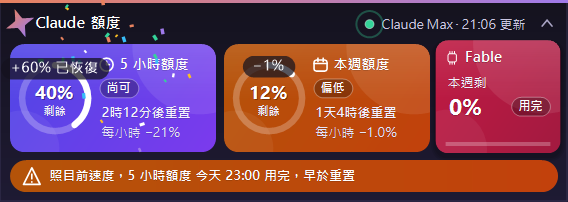
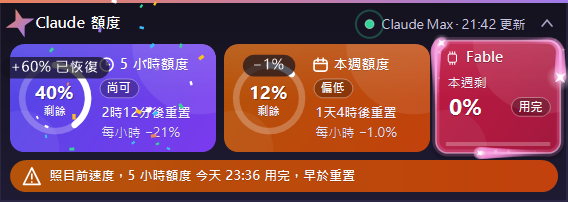
0.1.1：滑鼠移到卡片時，各額度專屬的光芒沿卡片邊緣繞行
- 5 小時青藍電光（兩道、1.5 秒一圈）、本週金色流光（一道長尾、2.2 秒）、
  各模型粉紫星光（三道、2.6 秒）；光尾由額度色漸變到白色光頭，光頭有光暈、
  旋轉星芒與殘留小星星；移入淡入、移開淡出後才停止
- --screenshot 加各額度懸停截圖、移開淡出截圖與重繪耗時量測，並忽略真實滑鼠
- README 加光芒截圖，版本改 0.1.1

diff --git a/src/TilePainter.cs b/src/TilePainter.cs
@@ -13,6 +13,26 @@ internal sealed record TileModel(string Title, TileIcon Icon, double Remaining, 
 /// <summary>The one-sentence conclusion under the tiles.</summary>
 internal sealed record Insight(string Text, Level Level, InsightIcon Icon);
 
+/// <summary>Each quota's own hover light, so the three blocks never glow alike.</summary>
+internal sealed record GlowStyle(Color Color, int Comets, float Tail, float LapMs)
+{
+    /// <summary>5-hour: electric cyan, two quick comets.</summary>
+    public static readonly GlowStyle Session = new(Color.FromArgb(0x5E, 0xEA, 0xF4), 2, 0.30f, 1500);
+
+    /// <summary>Weekly: one long golden stream.</summary>
+    public static readonly GlowStyle Weekly = new(Color.FromArgb(0xFF, 0xC9, 0x4D), 1, 0.48f, 2200);
+
+    /// <summary>Per-model windows: three short pink-violet starlights.</summary>
+    public static readonly GlowStyle Model = new(Color.FromArgb(0xF4, 0x8F, 0xD8), 3, 0.18f, 2600);
+
+    public static GlowStyle For(string windowId) => windowId switch
+    {
+        WindowIds.FiveHour => Session,
+        WindowIds.SevenDay => Weekly,
+        _ => Model,
+    };
+}
+
 /// <summary>
 /// Pixel fonts for one DPI scale, cached so animation frames do not allocate fonts. Sizes are on the
 /// generous side and most labels are bold: JhengHei's regular strokes get thin and blurry when small.
@@ -133,6 +153,115 @@ internal static class TilePainter
         }
         g.Clip = clip;
     }
+
+    /// <summary>
+    /// Hover light: comets of light run around the block's rounded edge over a softly lit rim.
+    /// Each quota has its own light (colour, number of comets, tail length, speed); the tail fades
+    /// from that colour into a white head with a light burst, a sparkle and a few trailing twinkles.
+    /// phase 0..1 is one lap; intensity 0..1 fades the whole effect in and out. With phase &lt; 0
+    /// (animations off) only the lit rim is drawn.
+    /// </summary>
+    public static void EdgeGlow(Graphics g, RectangleF r, float radius, float phase, float scale, GlowStyle style, float intensity = 1)
+    {
+        if (intensity <= 0.01f)
+            return;
+        using var path = Theme.RoundedRect(r, radius);
+        float breathe = phase < 0 ? 1 : 0.75f + 0.25f * MathF.Sin(phase * MathF.PI * 2 * 3);
+        float level = breathe * intensity;
+        var tint = style.Color;
+        // The whole edge glows softly outward in the quota's colour, with a crisp lit rim on top.
+        using (var aura = new Pen(Color.FromArgb((int)(70 * level), tint), 7f * scale))
+            g.DrawPath(aura, path);
+        using (var rim = new Pen(Color.FromArgb((int)(190 * level), Mix(tint, Color.White, 0.55f)), 1.6f * scale))
+            g.DrawPath(rim, path);
+        if (phase < 0)
+            return;
+
+        path.Flatten(null, 0.3f);
+        var points = path.PathPoints;
+        int n = points.Length;
+        if (n < 3)
+            return;
+        var lengths = new float[n + 1];
+        for (int i = 0; i < n; i++)
+        {
+            var a = points[i];
+            var b = points[(i + 1) % n];
+            lengths[i + 1] = lengths[i] + MathF.Sqrt((b.X - a.X) * (b.X - a.X) + (b.Y - a.Y) * (b.Y - a.Y));
+        }
+        float total = lengths[n];
+        PointF At(float distance)
+        {
+            distance = ((distance % total) + total) % total;
+            int i = Array.BinarySearch(lengths, distance);
+            if (i < 0)
+                i = ~i - 1;
+            i = Math.Clamp(i, 0, n - 1);
+            float span = lengths[i + 1] - lengths[i];
+            float t = span <= 0 ? 0 : (distance - lengths[i]) / span;
+            var a = points[i];
+            var b = points[(i + 1) % n];
+            return new PointF(a.X + (b.X - a.X) * t, a.Y + (b.Y - a.Y) * t);
+        }
+
+        const int Steps = 48;
+        float tail = total * style.Tail;
+        using var halo = new Pen(Color.White, 8f * scale) { StartCap = LineCap.Round, EndCap = LineCap.Round };
+        using var core = new Pen(Color.White, 3f * scale) { StartCap = LineCap.Round, EndCap = LineCap.Round };
+        using var white = new SolidBrush(Color.FromArgb((int)(255 * intensity), 255, 255, 255));
+        for (int c = 0; c < style.Comets; c++)
+        {
+            float offset = c / (float)style.Comets;
+            float head = ((phase + offset) % 1f) * total;
+            var previous = At(head - tail);
+            for (int k = 1; k <= Steps; k++)
+            {
+                float t = k / (float)Steps;
+                var point = At(head - tail + tail * t);
+                // Coloured and thin at the tail, white and wide at the head: the light reads as moving forward.
+                halo.Color = Color.FromArgb((int)(160 * t * t * level), tint);
+                halo.Width = (2 + 10 * t) * scale;
+                g.DrawLine(halo, previous, point);
+                core.Color = Color.FromArgb((int)(255 * t * level), Mix(tint, Color.White, 0.25f + 0.75f * t * t));
+                core.Width = (1f + 2.4f * t) * scale;
+                g.DrawLine(core, previous, point);
+                previous = point;
+            }
+
+            // A soft burst of coloured light around the head, with a turning sparkle in it.
+            var at = At(head);
+            float twinkle = 0.72f + 0.28f * MathF.Sin((phase * 11 + offset) * MathF.PI * 2);
+            float burst = 14f * scale * twinkle;
+            using (var glowPath = new GraphicsPath())
+            {
+                glowPath.AddEllipse(at.X - burst, at.Y - burst, burst * 2, burst * 2);
+                using var glow = new PathGradientBrush(glowPath)
+                {
+                    CenterColor = Color.FromArgb((int)(220 * level), Mix(tint, Color.White, 0.6f)),
+                    SurroundColors = [Color.FromArgb(0, tint)],
+                };
+                g.FillPath(glow, glowPath);
+            }
+            Glyphs.Sparkle(g, at, 7f * scale * twinkle, white, phase * 360 * 2);
+
+            // Little stars left behind the head, each twinkling on its own beat.
+            for (int j = 1; j <= 4; j++)
+            {
+                float back = head - tail * 0.16f * j;
+                var star = At(back);
+                float beat = 0.5f + 0.5f * MathF.Sin((phase * 14 + j * 0.37f + offset) * MathF.PI * 2);
+                int alpha = (int)(230 * (1 - j / 5f) * beat * intensity);
+                if (alpha < 8)
+                    continue;
+                float wobble = MathF.Sin((phase * 6 + j) * MathF.PI * 2) * 3.5f * scale;
+                using var starBrush = new SolidBrush(Color.FromArgb(alpha, Mix(tint, Color.White, 0.7f)));
+                Glyphs.Sparkle(g, new PointF(star.X + wobble, star.Y - wobble * 0.6f), (3.6f - j * 0.5f) * scale, starBrush, j * 40);
+            }
+        }
+    }
+
+    static Color Mix(Color a, Color b, float t) => Color.FromArgb(
+        (int)(a.R + (b.R - a.R) * t), (int)(a.G + (b.G - a.G) * t), (int)(a.B + (b.B - a.B) * t));
 
     /// <summary>A soft drop shadow under a lifted block (lift 0..1).</summary>
     public static void Shadow(Graphics g, RectangleF r, float radius, float lift, float scale)

diff --git a/src/OverlayForm.cs b/src/OverlayForm.cs
@@ -405,7 +405,8 @@ internal sealed class OverlayForm : Form
             float current = lift.GetValueOrDefault(id), target = id == hoverTile ? 1 : 0;
             if (Math.Abs(target - current) > 0.01f)
             {
-                lift[id] = current + (target - current) * 0.22f;
+                // Gentle ease so the lift and its edge light fade in and out over about a quarter second.
+                lift[id] = current + (target - current) * 0.14f;
                 lifting = true;
             }
             else
@@ -416,7 +417,8 @@ internal sealed class OverlayForm : Form
 
         long now = fx.ElapsedMilliseconds;
         effects.RemoveAll(e => now - e.Start > e.Duration);
-        bool effecting = effects.Count > 0 || now - popStart < PopMs;
+        // The edge light keeps running only while the pointer is on a block.
+        bool effecting = effects.Count > 0 || now - popStart < PopMs || hoverTile != null;
 
         Invalidate();
         if (!tweening && !loading && !critical && !fading && !lifting && !effecting)
@@ -612,7 +614,8 @@ internal sealed class OverlayForm : Form
             Location = originStart + delta;
             return;
         }
-        SetHover(tileBounds.FirstOrDefault(t => t.Bounds.Contains(e.Location)).Id);
+        if (!scriptedHover)
+            SetHover(tileBounds.FirstOrDefault(t => t.Bounds.Contains(e.Location)).Id);
         // Pointing at the sparkle makes it twinkle.
         if (animate && !Compact && e.Y < S(Pad + HeaderH) && e.X < S(Pad + 120) && fx.ElapsedMilliseconds - popStart > 1200)
         {
@@ -636,6 +639,20 @@ internal sealed class OverlayForm : Form
         hoverTile = id;
         Kick();
         Invalidate();
+    }
+
+    /// <summary>
+    /// The quota's own edge light. Its strength follows the hover lift, so it fades in when the
+    /// pointer arrives and only fades away after the pointer has left.
+    /// </summary>
+    void PaintHoverLight(Graphics g, RectangleF drawn, string id, string windowId, float radius)
+    {
+        float intensity = animate ? lift.GetValueOrDefault(id) : (hoverTile == id ? 1 : 0);
+        if (intensity <= 0.01f)
+            return;
+        var style = GlowStyle.For(windowId);
+        float phase = animate ? fx.ElapsedMilliseconds % style.LapMs / style.LapMs : -1;
+        TilePainter.EdgeGlow(g, drawn, radius, phase, UiScale, style, intensity);
     }
 
     void OnMouseUp(object? sender, MouseEventArgs e)
@@ -746,6 +763,7 @@ internal sealed class OverlayForm : Form
                 var level = Theme.LevelOf(w.RemainingPercent, service.Settings);
                 var drawn = Lifted(g, r, w.Id, 12 * s, out float l);
                 TilePainter.Mini(g, drawn, w.Label.Replace("本週·", ""), ShownValue(w), level, Theme.Word(level, w.RemainingPercent), f, 0.25f * l, shimmer);
+                PaintHoverLight(g, drawn, w.Id, w.Id, 12 * s);
                 tileBounds.Add((r, w.Id));
             }
         }
@@ -773,6 +791,7 @@ internal sealed class OverlayForm : Form
         var drawn = Lifted(g, r, id, 14 * UiScale, out float l);
         float glow = Math.Max(w == null ? 0 : GlowFor(w), 0.25f * l);
         TilePainter.Tile(g, drawn, model, Fonts, glow, shimmer);
+        PaintHoverLight(g, drawn, id, id, 14 * UiScale);
         tileBounds.Add((r, id));
     }
 
@@ -814,6 +833,7 @@ internal sealed class OverlayForm : Form
         var drawn = Lifted(g, r, "compact", 14 * s, out float l);
         float glow = Math.Max(w == null ? 0 : GlowFor(w), 0.25f * l);
         TilePainter.Tile(g, drawn, model, f, glow, shimmer);
+        PaintHoverLight(g, drawn, "compact", w?.Id ?? WindowIds.SevenDay, 14 * s);
         tileBounds.Add((r, "compact"));
         var dot = new PointF(drawn.Right - 13 * s, drawn.Y + 13 * s);
         float pop = PopProgress;
@@ -939,6 +959,16 @@ internal sealed class OverlayForm : Form
         {
         }
     }
+
+    /// <summary>Points the hover at a block (or none) as if the mouse were there; used by --screenshot.</summary>
+    internal void SimulateHover(string? id)
+    {
+        scriptedHover = true;
+        SetHover(id);
+    }
+
+    /// <summary>Set by --screenshot so a real pointer resting over the window cannot override the scripted hover.</summary>
+    bool scriptedHover;
 
     /// <summary>Plays the "quota used", "reset confetti" and hover effects at once; used by --screenshot.</summary>
     internal void PlayDemoEffects()

diff --git a/src/Program.cs b/src/Program.cs
@@ -129,6 +129,23 @@ internal static class Program
             Grab(overlay, Path.Combine(folder, "overlay-anim-1.png"), settleMs: 120);
             Grab(overlay, Path.Combine(folder, "overlay-anim-2.png"), settleMs: 180);
             Grab(overlay, Path.Combine(folder, "overlay-settled.png"), settleMs: 1200);
+            foreach (var (id, name) in new[] { (WindowIds.FiveHour, "session"), (WindowIds.SevenDay, "weekly"), ("model:fable", "model") })
+            {
+                overlay.SimulateHover(id);
+                Grab(overlay, Path.Combine(folder, $"overlay-hover-{name}-1.png"), settleMs: 450);
+                Grab(overlay, Path.Combine(folder, $"overlay-hover-{name}-2.png"), settleMs: 400);
+            }
+            // Frame cost with the heaviest light (three comets) on: must stay well under 16 ms for 60 fps.
+            using (var frame = new Bitmap(overlay.Width, overlay.Height))
+            {
+                var timer = Stopwatch.StartNew();
+                for (int i = 0; i < 120; i++)
+                    overlay.DrawToBitmap(frame, new Rectangle(Point.Empty, overlay.Size));
+                File.WriteAllText(Path.Combine(folder, "paint-timing.txt"), $"hover frame: {timer.Elapsed.TotalMilliseconds / 120:0.00} ms\n");
+            }
+            overlay.SimulateHover(null);
+            Grab(overlay, Path.Combine(folder, "overlay-unhover-fading.png"), settleMs: 90);
+            Grab(overlay, Path.Combine(folder, "overlay-unhover.png"), settleMs: 700);
             overlay.PlayDemoEffects();
             Grab(overlay, Path.Combine(folder, "overlay-effects.png"), settleMs: 380);
         }

diff --git a/README.md b/README.md
@@ -23,6 +23,14 @@
 
 ![小動畫](docs/screenshots/overlay-effects.png)
 
+**滑鼠移到卡片**：每個額度有自己的光芒沿著卡片邊緣繞行——5 小時是青藍電光（兩道、最快）、本週是金色流光（一道長尾）、各模型是粉紫星光（三道）；光頭有閃爍星芒與殘留小星星，移開後淡出才停止。
+
+![5 小時額度的青藍電光](docs/screenshots/overlay-hover-session.png)
+
+![本週額度的金色流光](docs/screenshots/overlay-hover-weekly.png)
+
+![模型額度的粉紫星光](docs/screenshots/overlay-hover-model.png)
+
 **精簡浮窗**：只顯示比較緊的那個額度。
 
 ![精簡浮窗](docs/screenshots/overlay-compact.png)
@@ -43,8 +51,8 @@
 
 | 項目 | 說明 |
 | --- | --- |
-| 版本 | 0.1.0（第一版） |
-| 安裝 | 解壓縮 `ClaudeUsageMonitor-v0.1.0-win-x64.zip` 到固定資料夾（例如 `D:\工具\ClaudeUsageMonitor`），雙擊 `ClaudeUsageMonitor.exe`。可對照同名 `.sha256` 檔核對 SHA-256。 |
+| 版本 | 0.1.1（卡片光芒動畫；0.1.0 為第一版） |
+| 安裝 | 解壓縮 `ClaudeUsageMonitor-v0.1.1-win-x64.zip` 到固定資料夾（例如 `D:\工具\ClaudeUsageMonitor`），雙擊 `ClaudeUsageMonitor.exe`。可對照同名 `.sha256` 檔核對 SHA-256。 |
 | 開機自動啟動 | 設定 →「登入 Windows 時自動啟動」（寫入目前使用者的啟動項目，不需要系統管理員）。 |
 | 更新 | 先從選單「離開」，用新版 exe 覆蓋舊檔再開啟。設定與紀錄存在 `%LOCALAPPDATA%\ClaudeUsageMonitor`，不在 exe 旁邊，更新不會動到。 |
 | 移除 | 先在設定取消開機自動啟動、從選單「離開」，再刪除程式資料夾；要連紀錄一起刪就刪 `%LOCALAPPDATA%\ClaudeUsageMonitor`。 |
@@ -77,7 +85,7 @@
 | 標題列圓點 | 綠：剛更新；珊瑚色光暈：查詢中；黃：資料過時；紅：查詢失敗。 |
 | 系統匣數字 | 5 小時與本週兩者中**較少**的剩餘百分比，底色同卡片顏色。 |
 
-小動畫（遵循 Windows「動畫效果」設定，關閉時全部停用；沒有動作時不重繪、不耗 CPU）：開啟時圓環從 0 轉到目前值；查詢中星芒旋轉、卡片有掃光；每次更新完星芒彈一下、狀態燈泛出漣漪；額度減少時浮出「−1%」；額度重置時噴出彩色紙屑；滑鼠移到卡片上會浮起，點一下有水波紋；紀錄圖表的曲線會畫出來。
+小動畫（遵循 Windows「動畫效果」設定，關閉時全部停用；沒有動作時不重繪、不耗 CPU）：開啟時圓環從 0 轉到目前值；查詢中星芒旋轉、卡片有掃光；每次更新完星芒彈一下、狀態燈泛出漣漪；額度減少時浮出「−1%」；額度重置時噴出彩色紙屑；滑鼠移到卡片上會浮起並有該額度專屬的光芒沿邊繞行（移開後淡出），點一下有水波紋；紀錄圖表的曲線會畫出來。
 
 額度詳情視窗的「資料來源與紀錄位置」預設收起，需要時點開。
 
